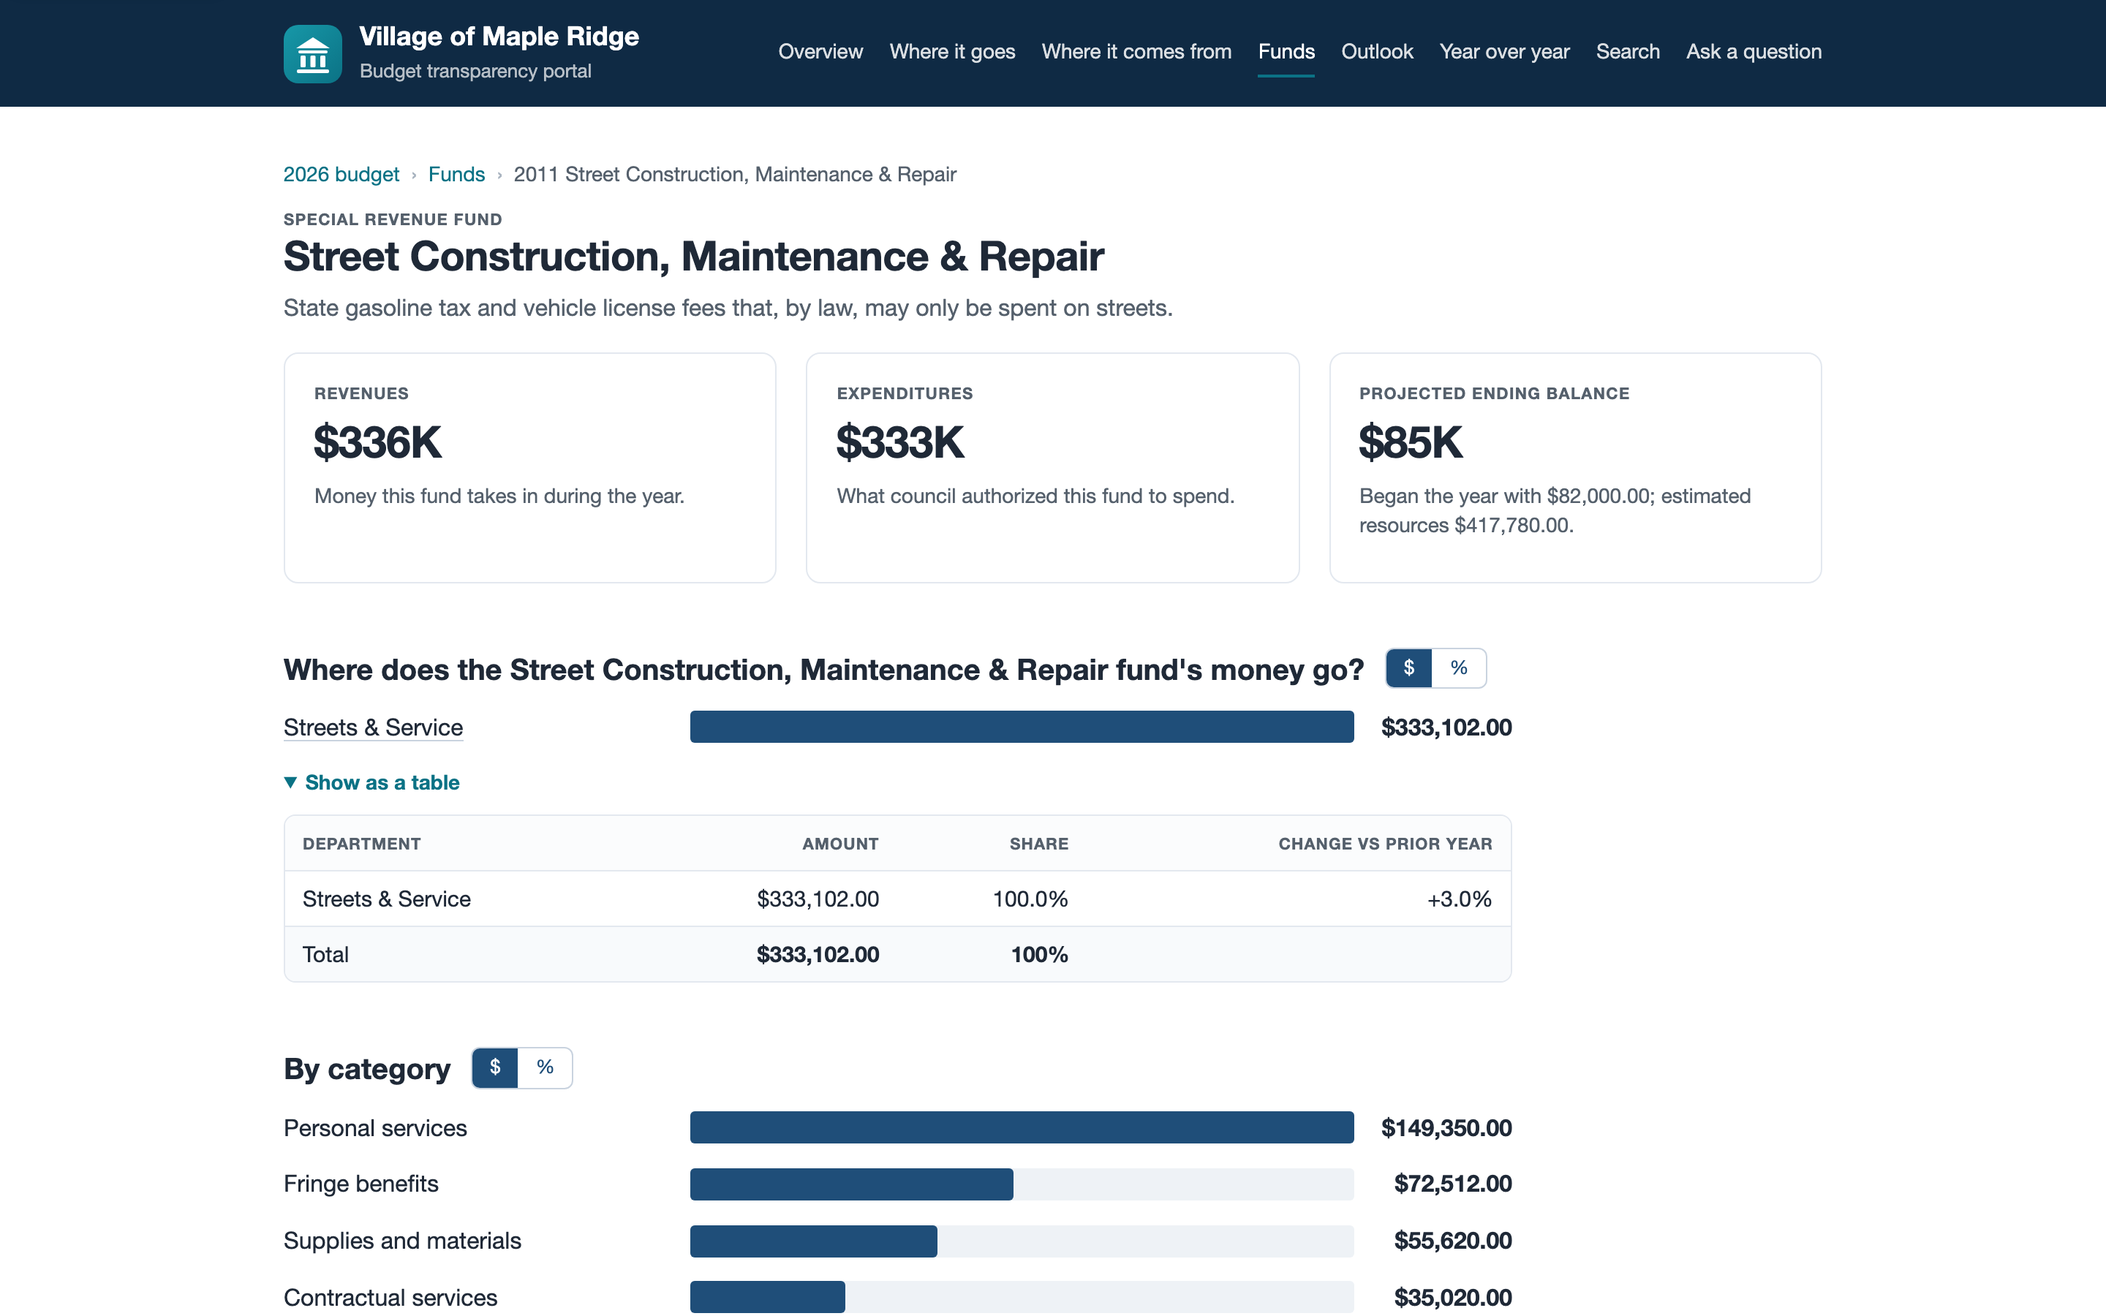
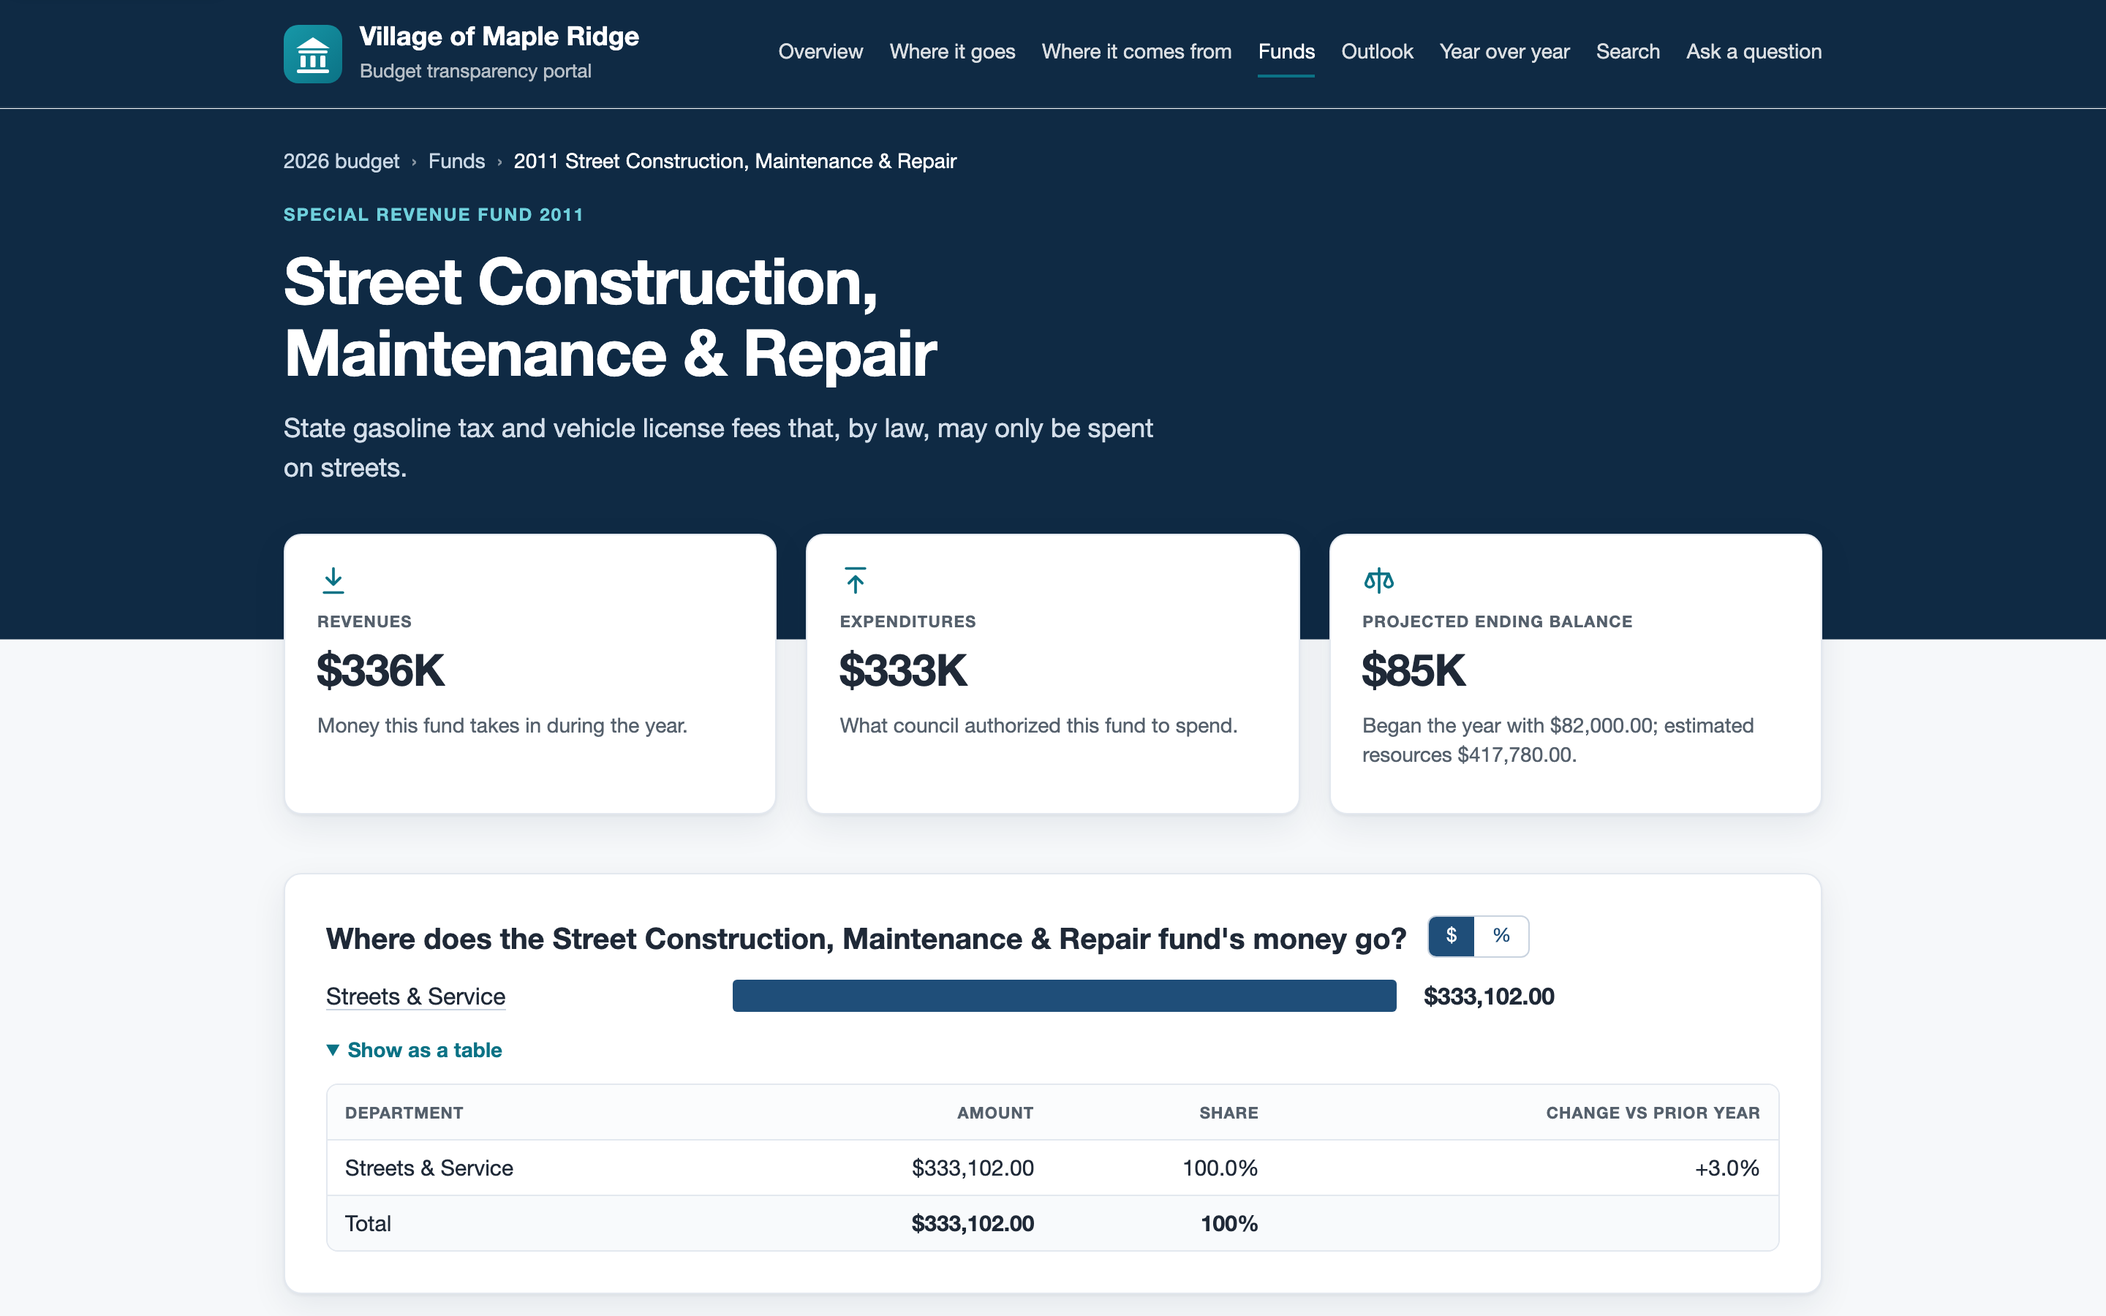
docs: ADR-0050, walkthrough 38, and new portal screenshots

diff --git a/docs/walkthroughs/38-portal-design.md b/docs/walkthroughs/38-portal-design.md
@@ -1,0 +1,102 @@
+# Walkthrough 38: The portal's new look
+
+The transparency portal is what a resident sees, and until now it looked like a well-behaved report:
+a small heading, a gray paragraph, then charts and tables of equal weight down a white column. The
+numbers were right and nothing said where to start. The product site (spencersmith.site/CivicBudget)
+had just been reworked so a buyer can skim it, and a resident skims even more, so I brought the
+same design language to the portal. The decisions are in ADR-0050.
+
+Nothing about what the portal shows changed: the same snapshot, the same queries, the same pages, and
+still no JavaScript. This phase is markup and CSS, plus two small components.
+
+## 1. Every page opens the same way
+
+`PortalHero` (in `Components/Portal/Common`) is the top of every portal page: a navy band that
+continues the header, holding the breadcrumbs, an optional eyebrow, the page's one `h1`, a short
+lead, and actions.
+
+| Page | Eyebrow | Actions |
+|---|---|---|
+| Overview | (none) | Read the budget book, Download the numbers; the year pills on the side |
+| A fund | "Special Revenue fund 2011" | (none) |
+| A department | its fund's code and name | (none) |
+| Search | (none) | the search box itself |
+
+Putting the title inside a component looked risky for accessibility (every page must keep exactly
+one `h1`), so `PortalHeroTests` checks that the hero renders one, with the breadcrumbs marked
+`aria-current` on the last item. `LeadText` is for leads that may be missing, like a fund with no
+description: the hero draws nothing rather than an empty paragraph.
+
+## 2. Edge to edge from inside a centered column
+
+The portal's `<main>` is a centered column (`.pt-in`), so anything inside it stops at the column's
+edges. The band needs to reach the window's edges. I could have restructured the layout so each page
+owned full-width sections, but then every page would carry its own column wrapper, and one that
+forgot would break.
+
+Instead the band paints its own sides:
+
+```css
+.pt-hero {
+    background: var(--cb-sidebar);
+    box-shadow: 0 0 0 100vmax var(--cb-sidebar);
+    clip-path: inset(0 -100vmax);
+}
+```
+
+The shadow spreads the band's color far past its box in every direction, and the clip keeps it to the
+band's own height while letting it run sideways. A shadow never counts toward scrollable overflow,
+which matters on phones: if anything is wider than the screen, Safari zooms the whole page out. The
+phone sweep reports a scroll width of 390 on a 390px screen for every portal page.
+
+## 3. Overlap only where it means something
+
+On the product site I first layered and tilted almost everything, and it was noise. The rule I kept
+is that an overlap says "this sits on top, read it first", so only things that earn that get it. On
+the portal that is the three headline figures (revenues, expenditures, the projected ending balance)
+on the overview and on each fund. The hero takes `Overlap="true"`, which leaves room at its bottom,
+and the figures' row (`.pt-kpis--lift`) moves up into that room with a negative margin. Everything
+else sits flat.
+
+## 4. Cards, icons, and a footer
+
+- **Cards.** Each chart and table is a white `.pt-card` on the light canvas, so a section reads as
+  one thing. A wide table inside a card could have scrolled for the sake of one long heading, so
+  portal table headings may wrap now (`table.pt-grid` heads only; the admin grids are untouched).
+- **Icons.** `PortalIcon` draws inline SVG paths by name (in, out, balance, funds, outlook, and so
+  on). Every icon is `aria-hidden` and sits beside text that says the same thing, so a screen reader
+  loses nothing. They mark the headline figures, the adoption details, and the overview's new
+  "Explore the budget" cards, which say what each section answers ("Where it goes", "Where it comes
+  from") instead of leaving that to the navigation bar.
+- **Footer.** Navy, closing the page the way the header opens it. The page is always light; there
+  is no dark scheme, matching the product site.
+
+## 5. One small piece of plumbing
+
+The overview's explore grid ends with "Ask a question" when the portal takes questions, and with
+"Search" when it does not. The layout already works out whether the portal takes questions (it shows
+the link in the header), so it passes the answer down as a cascading value named `PortalAskable`
+rather than each page asking the service again:
+
+```razor
+<CascadingValue Name="PortalAskable" Value="askable">
+    @Body
+</CascadingValue>
+```
+
+## 6. How I checked it
+
+- Every portal page at 1440 and 390 pixels wide: no sideways scroll, and axe finds nothing.
+- The project's sweeps: `scripts/screenshots/a11y-sweep.mjs` (253 pages, as every demo user, no
+  findings) and `scripts/screenshots/mobile-sweep.mjs` (no overflow).
+- The README's portal screenshots were retaken after a reseed.
+
+## 7. Trying it
+
+```bash
+docker compose up -d
+dotnet run --project src/CivicBudget.Web
+```
+
+Then open http://localhost:5000/transparency/maple-ridge-oh/2026, and narrow the window to phone
+width to see the hero, the lifted figures, and the cards stack.

diff --git a/CLAUDE.md b/CLAUDE.md
@@ -100,7 +100,7 @@ Actions · AWS CDK (C#) deploy-ready (no account — see ADR-0008).
 - Budget book (ADR-0046): the book is assembled from existing report services by `BudgetBookService`, and the pure `BudgetBookBuilder` decides the pages; never compute a figure in the renderer. The message lives on `BudgetVersion` (`SetMessage`) and follows its rules. A new section is a builder change, an option in `BudgetBookOptions` and `BudgetBookSettings`, and a renderer method. The published book is `PublishedBudgetBook`, printed at publish; never re-render it for the portal. Glossary terms live in `Glossary.Terms` for both the portal and the book.
 - Amounts typed by people (import, ERP files) go through `MoneyText.Parse`; do not write another money parser.
 - Import/reports: `ImportAnalyzer` and `ReportBuilder` are pure; keep rules there and tests in Application.Tests. Exports go through `ExportTable` + `ISpreadsheetExporter`; add endpoints to `AdminExportEndpoints` behind a policy.
-- Portal pages call `ISnapshotQueryService` only (the question box also calls `IPortalQuestionService`); shared pieces live in `Components/Portal/Common` (`Breakdown`, `PortalPanels`, `PortalKpi`, `PortalCrumbs`, `PortalNotFound`, `MoneyShort`). Styles are the `.pt-*` section of `app.css`. The portal has no JavaScript: toggles are links or `:checked` CSS. The portal context maps the snapshot tables plus `GovernmentLogos` (a public image) and nothing else.
+- Portal pages call `ISnapshotQueryService` only (the question box also calls `IPortalQuestionService`); shared pieces live in `Components/Portal/Common` (`PortalHero`, `Breakdown`, `PortalPanels`, `PortalKpi`, `PortalIcon`, `PortalCrumbs`, `PortalNotFound`, `MoneyShort`). Every portal page opens with `<PortalHero>` (it holds the breadcrumbs and the one `h1`); sections are `.pt-card`; only headline figures overlap the band (`Overlap` plus `.pt-kpis--lift`); "does this portal take questions" is the `PortalAskable` cascading value (ADR-0050). Styles are the `.pt-*` section of `app.css`. The portal has no JavaScript: toggles are links or `:checked` CSS. The portal context maps the snapshot tables plus `GovernmentLogos` (a public image) and nothing else.
 - Mobile: every page must render at 390px without horizontal overflow (Safari zooms the whole page out otherwise). Grid columns that hold tables are `minmax(0, 1fr)`, never bare `1fr`; wide tables scroll inside `.cb-grid-wrap` with the first column pinned on phones; hidden tooltips are `display:none`, not `visibility:hidden`; long `<select>` option labels widen the page in WebKit. Check with `scripts/screenshots/mobile-sweep.mjs`.
 - Phones, list pages: the grid gets `d-none d-md-block` and a `.cb-cards.d-md-none` block renders `<ListCard>` per row from the same filtered data; put the status pill and row menu in `RenderFragment` helpers in `@code` and use them in both. `<Summary>` is the second line (`Meta` is an HTML void element in Razor; avoid it as a fragment name). Working grids mark secondary columns `cb-col-wide` and add a `.cb-row-open` chevron that opens the drawer, which leads with `LineDetail`.
 - Budget rules (Phase 18): a department's total is `AccountType.CountsTowardDepartmentTotal()` (expenditures only), never a hand-written type filter; line amounts are never negative (the domain enforces it); only the latest adopted, unreplaced version is publishable or can start next year's budget (`BudgetVersion.CreateOriginalFrom`). Every mutating method on `BudgetVersion` calls `Touch()` (the `Revision` concurrency token), and budget services save with `db.TrySaveAsync(ct)`.

diff --git a/docs/DECISIONS.md b/docs/DECISIONS.md
@@ -1957,6 +1957,52 @@ them in a sentence, but it is a different problem:
 
 ---
 
+## ADR-0050: The portal takes the product site's look: navy openings, white cards, icons as signposts
+**Date:** 2026-10-01 · **Status:** Accepted
+
+**Context.** The portal worked and read correctly, but every page was the same white column: a
+small heading, a gray paragraph, then charts and tables of equal weight, and nothing that said where
+to start. The product site (spencersmith.site/CivicBudget) had just been reworked to be skimmed:
+navy bands where the app is navy, light sections, white cards, icons, short leads, and overlap only
+where it means something. Residents skim a portal even more than buyers skim a product page.
+
+**Decision.**
+- **Every page opens on a navy band** (`PortalHero`) that continues the header: the breadcrumbs, an
+  optional eyebrow (the fund type, the department's fund), the title, one short lead, and actions
+  (the budget book, the download, the search box). One component, so every page opens the same way.
+- **Drawn edge to edge without leaving the column.** The portal's `<main>` is a centered column, and
+  a band inside it could not reach the window's edges. The band paints its sides with a spread
+  `box-shadow` and clips that to its own height with `clip-path`, so it needs no change to the layout
+  and adds no sideways scroll (which on a phone would make Safari zoom the page out).
+- **Overlap in one place only.** The headline figures (revenues, expenditures, the projected ending
+  balance) sit as cards over the band's bottom edge on the overview and on each fund. Nothing else
+  overlaps or tilts; the product site showed that layering everything is noise.
+- **White cards on a light page.** Each chart and table is a card (`.pt-card`), so a section reads as
+  one thing. Table headings may wrap, so a wide table fits its card instead of scrolling for the sake
+  of one heading.
+- **Icons as signposts** (`PortalIcon`, inline SVG, always `aria-hidden`): on the headline cards, the
+  overview's "Explore the budget" cards, and the adoption details. The text beside each icon says
+  what it means.
+- **A navy footer**, closing the page the way the header opens it. Always light: there is no dark
+  scheme, as on the product site.
+- **Still no JavaScript**, and the question box is offered on the overview only when the portal takes
+  questions, which the layout already works out (`PortalAskable`, a cascading value) rather than each
+  page asking again.
+
+**Alternatives.**
+- **Restructure the layout so each page owns full-width sections:** cleaner HTML, but every page
+  would carry its own column wrapper, and a page that forgot one would break the layout.
+- **A dark mode:** turned every section dark on a device set to dark mode on the product site, which
+  buried the contrast between bands; not worth it for a public page.
+- **Tilted, layered screenshots-style cards everywhere:** tried on the product site and pulled back.
+
+**Consequences.**
+- A new portal page starts with `<PortalHero>` and puts its sections in `.pt-card`.
+- `.pt-h1`, `.pt-head`, `.pt-lead`, `.pt-book`, and `.pt-govlist` are gone.
+- The README's portal screenshots and the product site's portal image show the new look.
+
+---
+
 ## Packages
 
 Every NuGet package and why it is here. A package is added to this table in the same change that

diff --git a/CHANGELOG.md b/CHANGELOG.md
@@ -13,6 +13,14 @@ walkthrough in [docs/walkthroughs](docs/walkthroughs). Format loosely follows
 - **A form opened before the nightly reset** (or before a deploy that changed the keys) no longer submits to a blank white page. Its antiforgery token was sealed with keys the reset deletes, and the app answered with an empty 400. `ExpiredFormMiddleware` now shows a short "This page expired" page with a link back to the same address; sign-in keeps its ReturnUrl when it stays on the site, and a post-only endpoint such as sign-out links home. The portal's question box, which has no token, is unaffected.
 - The waiting screen and the new page share one shell (`PlainPage`) instead of two copies of the header and styles.
 
+## Phase 39: 2026-10-01 (the portal's new look)
+### Changed
+- **The transparency portal takes the product site's look** (ADR-0050): every page opens on a navy band (`PortalHero`) with its breadcrumbs, title, and a short lead; the overview's and each fund's headline figures sit as cards over the band's edge; charts and tables are white cards on a light page; icons mark the headline figures, the adoption details, and a new "Explore the budget" grid on the overview; the footer is navy. The search box sits in the band, and the portal index lists governments as cards.
+- Wide tables fit their card: column headings wrap.
+- Still no JavaScript; the overview offers "Ask a question" only when the portal takes questions (`PortalAskable`, from the layout).
+### Removed
+- The unused `.pt-h1`, `.pt-head`, `.pt-lead`, `.pt-book`, and `.pt-govlist` styles.
+
 ## Phase 38: 2026-09-29 (questions from the public)
 ### Added
 - **"Ask a question"** on the transparency portal: a resident asks about the published budget in their own words and gets a short answer with a link to the page that shows it. Answers come only from the published snapshot of that government, through nine read-only tools; drafts, actual spending, and anything about people are not there to find, and it says so.

diff --git a/docs/INTERVIEW-PREP.md b/docs/INTERVIEW-PREP.md
@@ -1815,3 +1815,26 @@ bound that.
 tool now returns that total, and the next run copied the published $937,100.00. The general rule
 from all three phases: give a model figures to copy, never figures to compute.
 **Look at:** walkthrough 37 section 6, `PortalTools.SearchAsync`.
+
+## Phase 39: The portal's new look
+
+### Q: How did you make a full-width band inside a centered page without breaking the layout?
+**A:** The portal's main area is a centered column, so a band inside it can't reach the window's
+edges. Instead of restructuring every page, the band paints its sides with a spread box-shadow and
+clips that to its own height with clip-path. Box-shadow doesn't count toward scrollable overflow, so
+there's no sideways scroll, which matters because Safari zooms a whole page out when anything is
+wider than the phone.
+**Look at:** `PortalHero.razor`, the `.pt-hero` rule in `app.css`.
+
+### Q: Why overlap the headline figures and nothing else?
+**A:** Overlap says "this sits on top, read it first". The three headline numbers earn that; a chart
+or a table doesn't. I tried layering everything on the product site and it was noise, so the rule is
+to layer only where the overlap means something.
+**Look at:** ADR-0050, `.pt-kpis--lift`.
+
+### Q: How do you keep a visual redesign from breaking accessibility?
+**A:** The structure didn't change: still one h1 per page (now inside the hero component, with a test
+that says so), every chart with its table twin, icons hidden from screen readers with the text beside
+them doing the work, and no JavaScript. Every page was checked with axe at desktop and phone widths,
+and with the project's accessibility and phone sweeps.
+**Look at:** `PortalHeroTests`, `scripts/screenshots/a11y-sweep.mjs`.

diff --git a/ROADMAP.md b/ROADMAP.md
@@ -465,6 +465,16 @@ published snapshot.
 - [x] A non-agentic bot that reads only the published snapshot, answers with links, and says so when something is not published
 - [x] Works without JavaScript; rate limits and a monthly cap per government; prompt-injection tests
 
+- [x] Reviewed and approved
+
+### Phase 39: The portal's new look  `phase-39-portal-design`
+The product site's design applied to the transparency portal: every page opens on a navy band,
+content in white cards, icons as signposts, overlap only for the headline figures (ADR-0050).
+- [x] `PortalHero` on every page, with the overview's and each fund's headline figures over its edge
+- [x] Charts and tables as cards; table headings wrap to fit
+- [x] "Explore the budget" cards on the overview; icons on figures and adoption details; navy footer
+- [x] Checked at desktop and phone widths: no overflow, axe clean, still no JavaScript
+
 - [ ] Reviewed and approved
 
 ## Later

diff --git a/docs/design/DESIGN-BRIEF.md b/docs/design/DESIGN-BRIEF.md
@@ -141,6 +141,10 @@ Principles from the research, in priority order:
 Palette: the same tokens with `--cb-sidebar` as a header band and white content; the categorical
 chart palette above; larger type (16px base) because citizens read, staff scan.
 
+*Amended 2026-10-01 (Phase 39):* each page now opens on a navy band under the header, content sits
+in white cards on the light canvas, the headline figures overlap the band's edge, icons mark where
+things lead, and the footer is navy. See ADR-0050.
+
 ## 5. Mockups
 
 Eight screens in [mockups.html](mockups.html), reviewed before any UI code was written:
